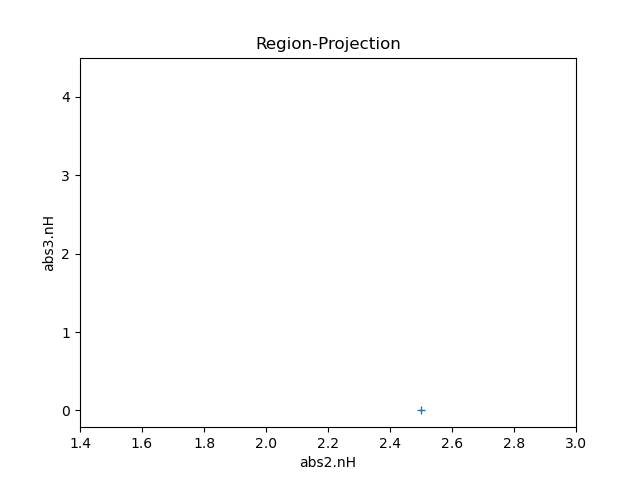
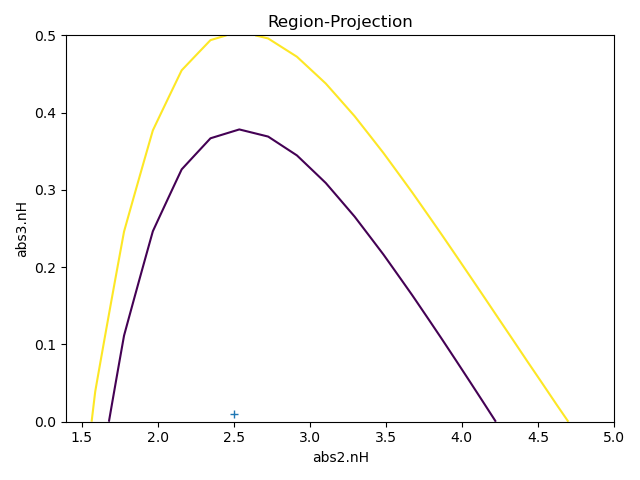
Added background gaussians to source models for EI UMa and IGR16547.

diff --git a/EIUMa_XRay_Data/SXT_LAXPC_EIUMa/conf_conts.py b/EIUMa_XRay_Data/SXT_LAXPC_EIUMa/conf_conts.py
@@ -86,20 +86,22 @@ fit()
 
 # ___________________Confidence Countours_____________________ #
 
-mkdir Code_Conf_Conts/
+#mkdir Code_Conf_Conts/
 
 # No linking first
+'''
 reg_proj(c1.kT, abs2.nH, min=[1.4, 1.5], max=[3.0, 4.5], nloop=[40, 40], sigma=[1, 1.6])
 plt.savefig("Code_Conf_Conts/c1.kT_and_abs2.nH_nloop=40.png")
 
 reg_proj(c1.kT, c2.kT, min=[1.4, 9.0], max=[3.0, 100], nloop=[40, 40], sigma=[1, 1.6])
 plt.savefig("Code_Conf_Conts/c1.kT_and_c2.kT_nloop=40.png")
-
-reg_proj(c2.kT, abs3.nH, nloop=[20, 20], sigma=[1, 1.6]) # keep at nloop=20
+'''
+reg_proj(c2.kT, abs3.nH, min=[9.0, 0], max=[100, 0.5], nloop=[20, 20], sigma=[1, 1.6]) # keep at nloop=20
 plt.savefig("Code_Conf_Conts/c2.kT_and_abs3.nH_nloop=20.png")
-
-reg_proj(abs2.nH, abs3.nH, min=[1.4, 1.5], max=[3.0, 4.5], nloop=[20, 20], sigma=[1, 1.6]) # keep at nloop=20
+'''
+reg_proj(abs2.nH, abs3.nH, min=[1.4, 0], max=[5.0, 0.5], nloop=[20, 20], sigma=[1, 1.6]) # keep at nloop=20
 plt.savefig("Code_Conf_Conts/abs2.nH_and_abs3.nH_nloop=20.png")
+
 
 # Linked columns
 
@@ -114,7 +116,7 @@ plt.savefig("Code_Conf_Conts/lc1.kT_and_abs2.nH_nloop=40.png")
 
 reg_proj(c1.kT, c2.kT, min=[1.0, 0.5], max=[3.0, 20.0], nloop=[40, 40], sigma=[1, 1.6])
 plt.savefig("Code_Conf_Conts/lc1.kT_and_c2.kT_nloop=40.png")
-
+'''
 #"/Images/Confidence\ Contours/Sigma_1_and_1.6/Non-linked\ columns/"
 #"/Images/Confidence\ Contours/Sigma_1_and_1.6/Linked\ columns/"
 

diff --git a/IGR16547_XRay_Data/SXT_LAXPC_IGR16547/IGR16547_fit.py b/IGR16547_XRay_Data/SXT_LAXPC_IGR16547/IGR16547_fit.py
@@ -1,5 +1,4 @@
-# To run this script, type 
-# ~$ sherpa excellent_fit.py
+# Usage: $ sherpa filename.py
 
 # Load files
 load_pha(1, "IGR16547_SXT_spectrum.pha")
@@ -34,17 +33,19 @@ bkgg3.LineE = 0.88
 bkgg3.norm = 0.011
 bkgg3.LineE.freeze()
 
-# Models
-set_source(1, (xstbabs.abs1 + xstbabs.abs2) * (xsbremss.c1 + xsgaussian.g1 + xsgaussian.sxtsrc1))
+# Background models
+set_source(2, powlaw1d.p1 + powlaw1d.p2 + bkgg1 + bkgg2 + bkgg3)
+set_source(4, powlaw1d.p3 + powlaw1d.p4)
+
+# Source models
+set_source(1, (xstbabs.abs1 + xstbabs.abs2) * (xsbremss.c1 + xsgaussian.sxtsrc1 + p1 + p2 + bkgg1 + bkgg2 + bkgg3))
 
 sxtsrc1.LineE.val = 0.75
 sxtsrc1.Sigma = 0.12
 sxtsrc1.LineE.freeze()
 sxtsrc1.Sigma.freeze()
 
-set_source(2, powlaw1d.p1 + powlaw1d.p2 + bkgg1 + bkgg2 + bkgg3)
-set_source(3, xstbabs.abs3 * (xsbremss.c2) + powlaw1d.p3)
-set_source(4, powlaw1d.p3 + powlaw1d.p4)
+set_source(3, xstbabs.abs3 * (xsbremss.c2 + p3 + p4)) # If I add a powerlaw here, the temperature changes from 99 to 4!
 
 # Systematic errors
 set_syserror(1, 0.02, fractional=True)
@@ -79,7 +80,7 @@ fit(3)
 #plot("fit", 3)
 #input("Press enter to continue: ")
 
-fit(1, 2, 3, 4)
+fit()
 #plot("fit", 1, "fit", 2, "fit", 3, "fit", 4)
 '''
 counts_data = get_dep(1)

diff --git a/EIUMa_XRay_Data/SXT_LAXPC_EIUMa/bremss_simultaneous.py b/EIUMa_XRay_Data/SXT_LAXPC_EIUMa/bremss_simultaneous.py
@@ -44,8 +44,8 @@ set_source(2, powlaw1d.p1 + powlaw1d.p2 + bkgg1 + bkgg2 + bkgg3)
 set_source(4, powlaw1d.p3 + powlaw1d.p4)
 
 # Source models
-set_source(1, (xstbabs.abs1 + xstbabs.abs2) * (xsbremss.c1 + p1 + p2))
-set_source(3, (xstbabs.abs3) * (xsbremss.c2 + laxpcbkgg1 + p3 + p4))
+set_source(1, (xstbabs.abs1 + xstbabs.abs2) * (xsbremss.c1 + p1 + p2 + bkgg1 + bkgg2 + bkgg3))
+set_source(3, (xstbabs.abs3) * (xsbremss.c2 + p3 + p4))
 
 # XSPEC model cevmkl doesn't seem to work
 #set_source(1, (xstbabs.abs1 + xstbabs.abs2) * (xscevmkl.c1 + p1 + p2))
